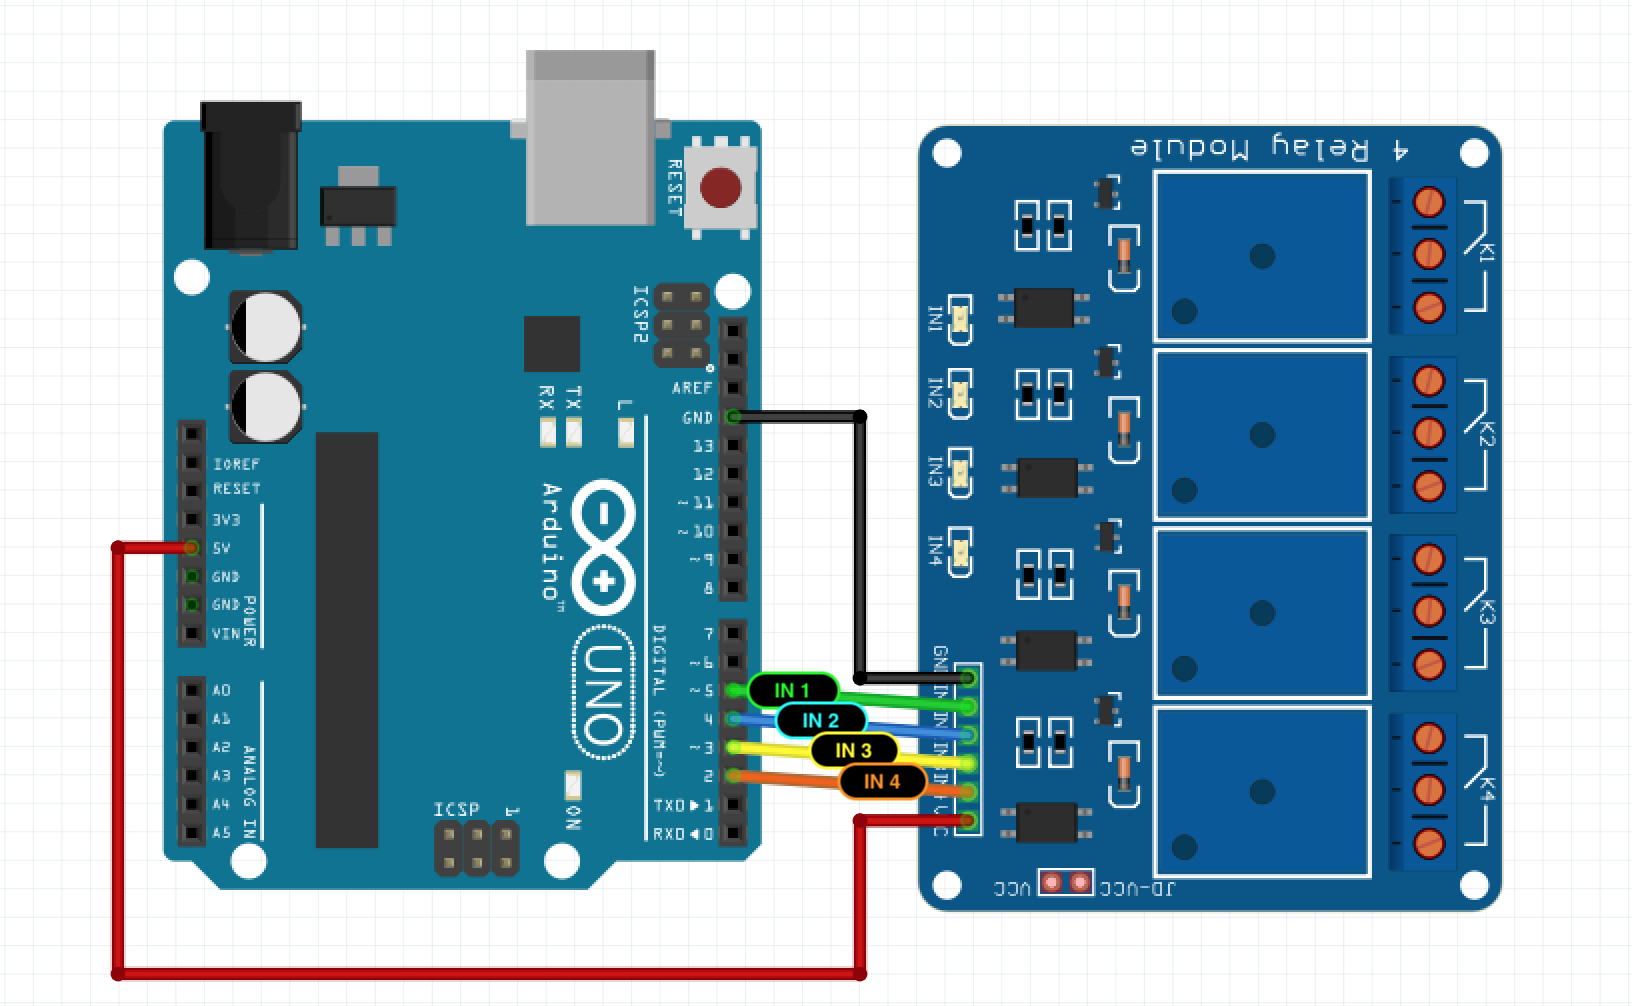
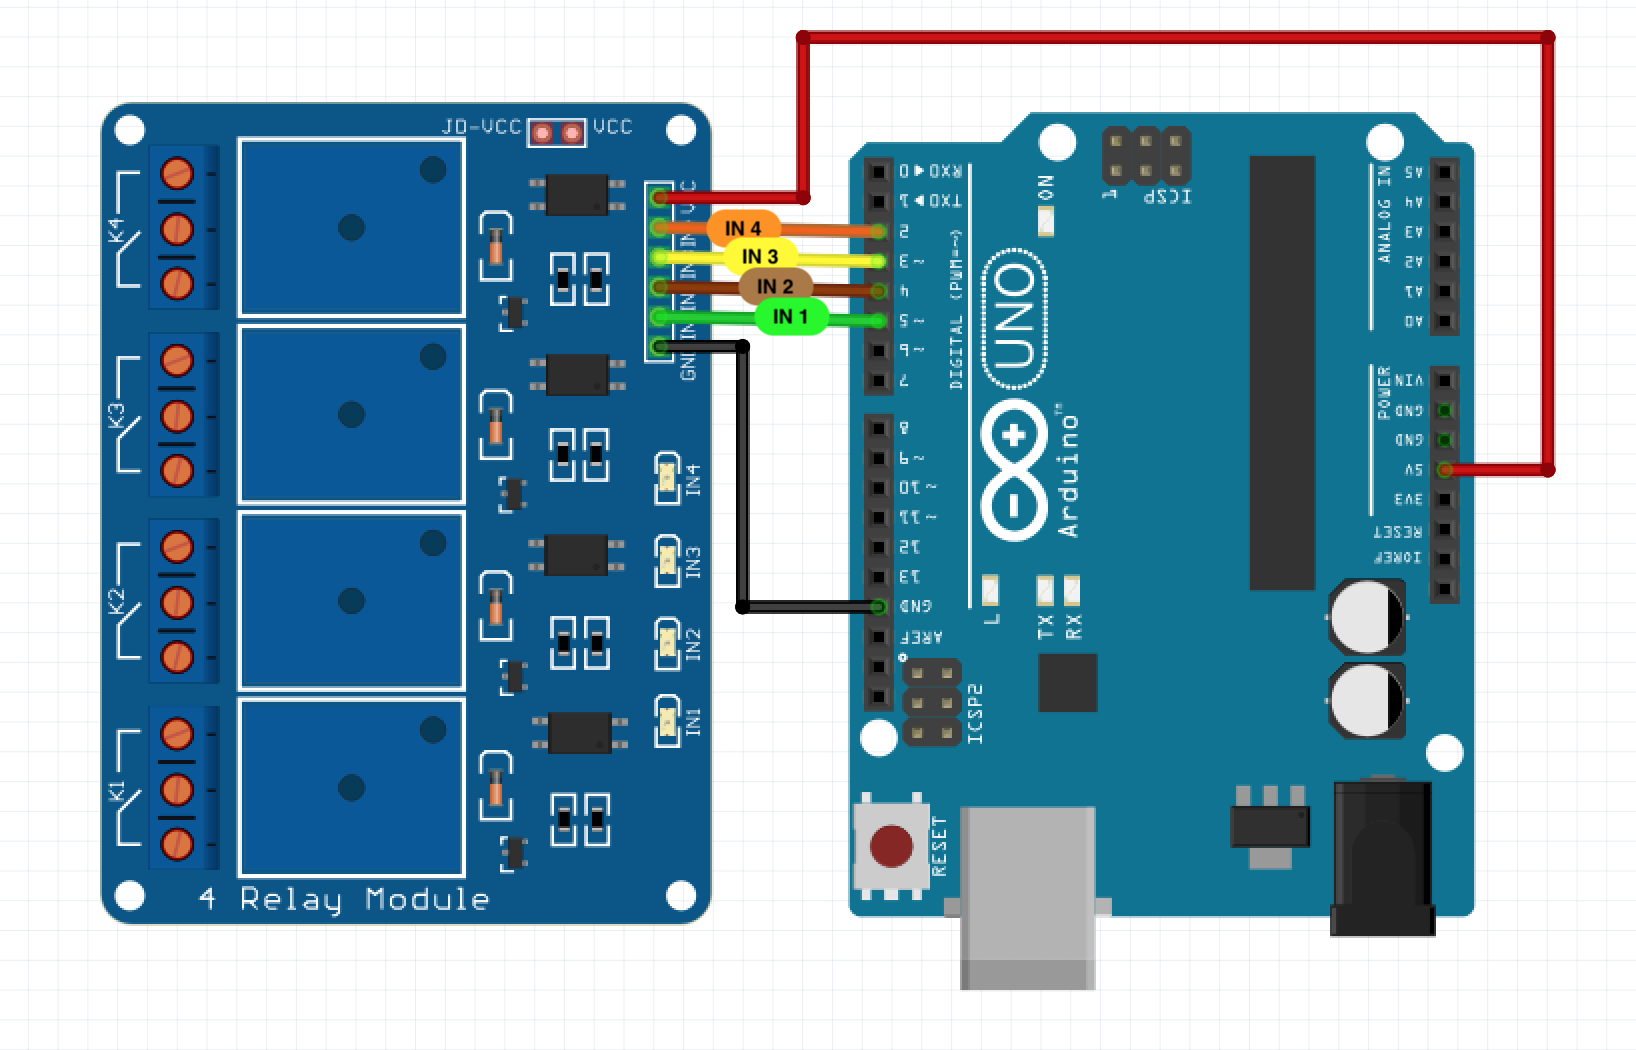
RelayModule is fixed

diff --git a/RelayModule/README.md b/RelayModule/README.md
@@ -1,4 +1,6 @@
 # RelayModule Library for Arduino
+![RelayModule](Photos/RelayModule.gif)<br><br><br>
+
 ## O. What is RelayModule Library? If I use it, how easier life will be ?
 If you have made some Arduino project with Relay Modules, you probably wrote some **scattered code** for relays.<br>
 
@@ -9,10 +11,10 @@ If you have made some Arduino project with Relay Modules, you probably wrote som
     int Relay2 = 4;
     int Relay3 = 3;
     int Relay4 = 2;
-    pinMode(Relay1, "OUTPUT");
-    pinMode(Relay2, "OUTPUT");
-    pinMode(Relay3, "OUTPUT");
-    pinMode(Relay4, "OUTPUT");
+    pinMode(Relay1, OUTPUT);
+    pinMode(Relay2, OUTPUT);
+    pinMode(Relay3, OUTPUT);
+    pinMode(Relay4, OUTPUT);
 **Scattered Code Example 2:** You should know *logic type* of the Relay Module.<br>
 **"When a relay is activated?"** question will give the answer about *logic type.*<br>
 If a relay is activated with `digitalWrite(pin, LOW)`, that means Relay Module is working with **LOW** logic.<br>
@@ -54,7 +56,7 @@ After clicking it, those two lines below automatically will be added to the sour
 
 ## 3. How to use RelayModule Library ?
 ### 3.1 Creating RelayModule Instance
-`RelayModule module(4, "LOW");`<br>
+`RelayModule module(4, LOW);`<br>
 We have specified that there are **4 relays** on this Relay Module and it is working with **LOW** logic.<br>
 Working with **LOW logic** specifies that **relays will be activated** when `digitalWrite(pin, LOW)` is executed.<br>
 <br>
@@ -64,15 +66,15 @@ As an example, look at the figure below! **Arduino Uno and 4 Relay Module are co
 ![Arduino_Uno_4_RelayModule_Example](Photos/Arduino_Uno_and_4Relay_Module.png)<br>
 <br>
 If we have those connections, we need to set the Relay Module's pins as:<br>
-`module[1].setPin(5).setPinMode("OUTPUT")` &nbsp;&nbsp;&nbsp;&nbsp;1st relay **(IN1)** is connected to the Arduino's **Digital5** pin. The green wire.<br>
-`module[2].setPin(4).setPinMode("OUTPUT")` &nbsp;&nbsp;&nbsp;&nbsp;2nd relay **(IN2)** is connected to the Arduino's **Digital4** pin. The blue wire.<br>
-`module[3].setPin(3).setPinMode("OUTPUT")` &nbsp;&nbsp;&nbsp;&nbsp;3rd relay **(IN3)** is connected to the Arduino's **Digital3** pin. The yellow wire.<br>
-`module[4].setPin(2).setPinMode("OUTPUT")` &nbsp;&nbsp;&nbsp;&nbsp;4th relay **(IN4)** is connected to the Arduino's **Digital2** pin. The red wire.<br>
+`module[1].setPinNumber(5).setPinMode(OUTPUT);` &nbsp;&nbsp;&nbsp;&nbsp;1st relay **(IN1)** is connected to the Arduino's **Digital5** pin. Green.<br>
+`module[2].setPinNumber(4).setPinMode(OUTPUT);` &nbsp;&nbsp;&nbsp;&nbsp;2nd relay **(IN2)** is connected to the Arduino's **Digital4** pin. Brown.<br>
+`module[3].setPinNumber(3).setPinMode(OUTPUT);` &nbsp;&nbsp;&nbsp;&nbsp;3rd relay **(IN3)** is connected to the Arduino's **Digital3** pin. Yellow.<br>
+`module[4].setPinNumber(2).setPinMode(OUTPUT);` &nbsp;&nbsp;&nbsp;&nbsp;4th relay **(IN4)** is connected to the Arduino's **Digital2** pin. Orange.<br>
 
-`module[1].setPin(5).setPinMode("OUTPUT");` <br>
+`module[1].setPinNumber(5).setPinMode(OUTPUT);` <br>
 **module[1]** specifies the module's first relay. (Be careful not try to reach first relay with **module[0]** )<br>
-**setPin(5)** specifies that relay is connected with Arduino's **Digital5** pin.<br>
-**setPinMode("OUTPUT")** specifies that Arduino's **Digital5** pin will be used in **OUTPUT** mode.<br>
+**setPinNumber(5)** specifies that relay is connected with Arduino's **Digital5** pin.<br>
+**setPinMode(OUTPUT)** specifies that Arduino's **Digital5** pin will be used on **OUTPUT** mode.<br>
 <br>
 
 ### 3.3 All Functions of RelayModule
@@ -84,14 +86,14 @@ If we have those connections, we need to set the Relay Module's pins as:<br>
         <th><b>Example</b></th>
     </tr>
     <tr>
-        <td> module( relayNumber, lowOrHigh ); </td>
+        <td> module( channelNumber, logic ); </td>
         <td> Initiates the relay module. </td>
-        <td> module( 4 , LOW );<br>Activates the fourth relay. </td>
+        <td> module( 4 , LOW );<br> It is 4 channel relay module which is working with LOW logic. </td>
     </tr>
     <tr>
         <td> module.active( relayNumber ); </td>
         <td> Activates the relay.</td>
-        <td> module.active(4);<br>Activates the fourth relay. </td>
+        <td> module.active(3);<br>Activates the third relay. </td>
     </tr>
     <tr>
         <td> module.activeAll(); </td>
@@ -100,7 +102,7 @@ If we have those connections, we need to set the Relay Module's pins as:<br>
     <tr>
         <td> module.deactive( relayNumber ); </td>
         <td> Deactivates the relay.</td>
-        <td> module.active(1);<br>Deativates the first relay. </td>
+        <td> module.deactive(1);<br>Deactivates the first relay. </td>
     </tr>
     <tr>
         <td> module.deactiveAll(); </td>
@@ -108,8 +110,12 @@ If we have those connections, we need to set the Relay Module's pins as:<br>
     </tr>
     <tr>
         <td> module.getStatus(); </td>
-        <td> Returns the status of relays as integer type. </td>
+        <td> Returns the status of relays as integer. </td>
         <td> Status: 7 <br> 7 = 0 + 4 + 2 + 1 <br> Specifies that Relay 1,2, 3 are active and Relay4 is deactive. </td>
     </tr>
     
 </table>
+
+## 4 Talk Is Cheap, Show Me The Code
+![RelayModuleExample](Photos/Talk_Is_Cheap_Show_Me_The_Code.png)<br><br><br>
+
